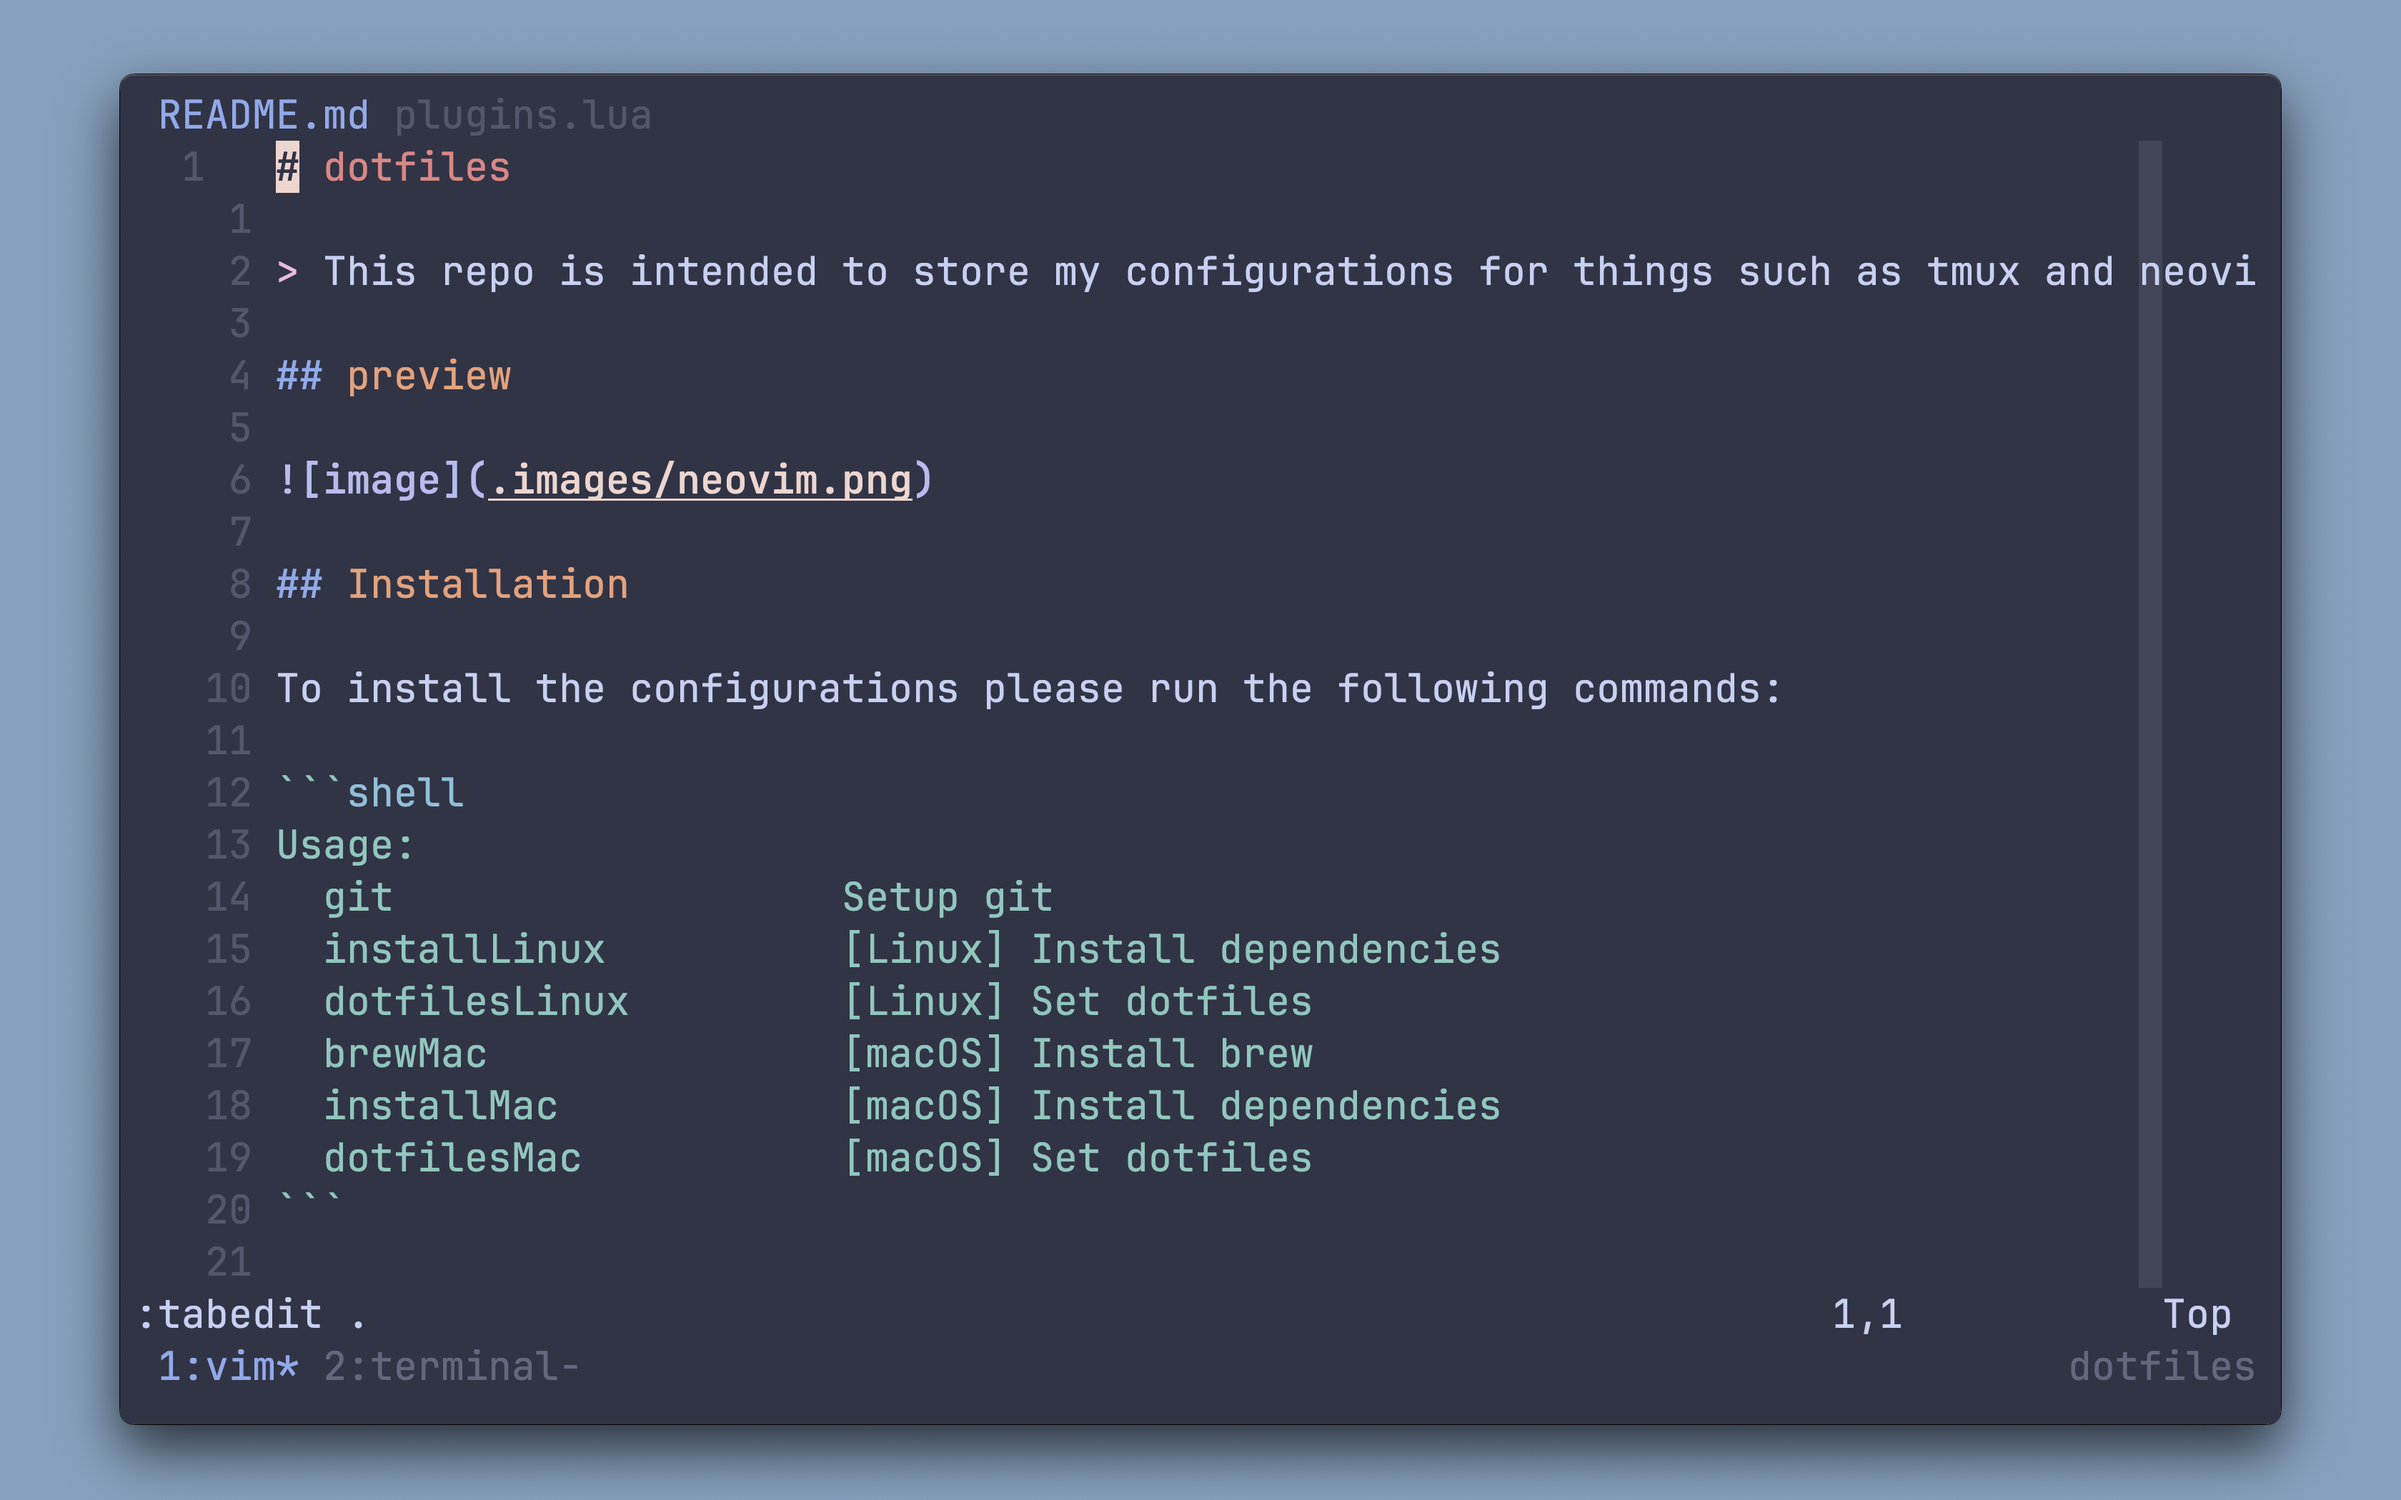
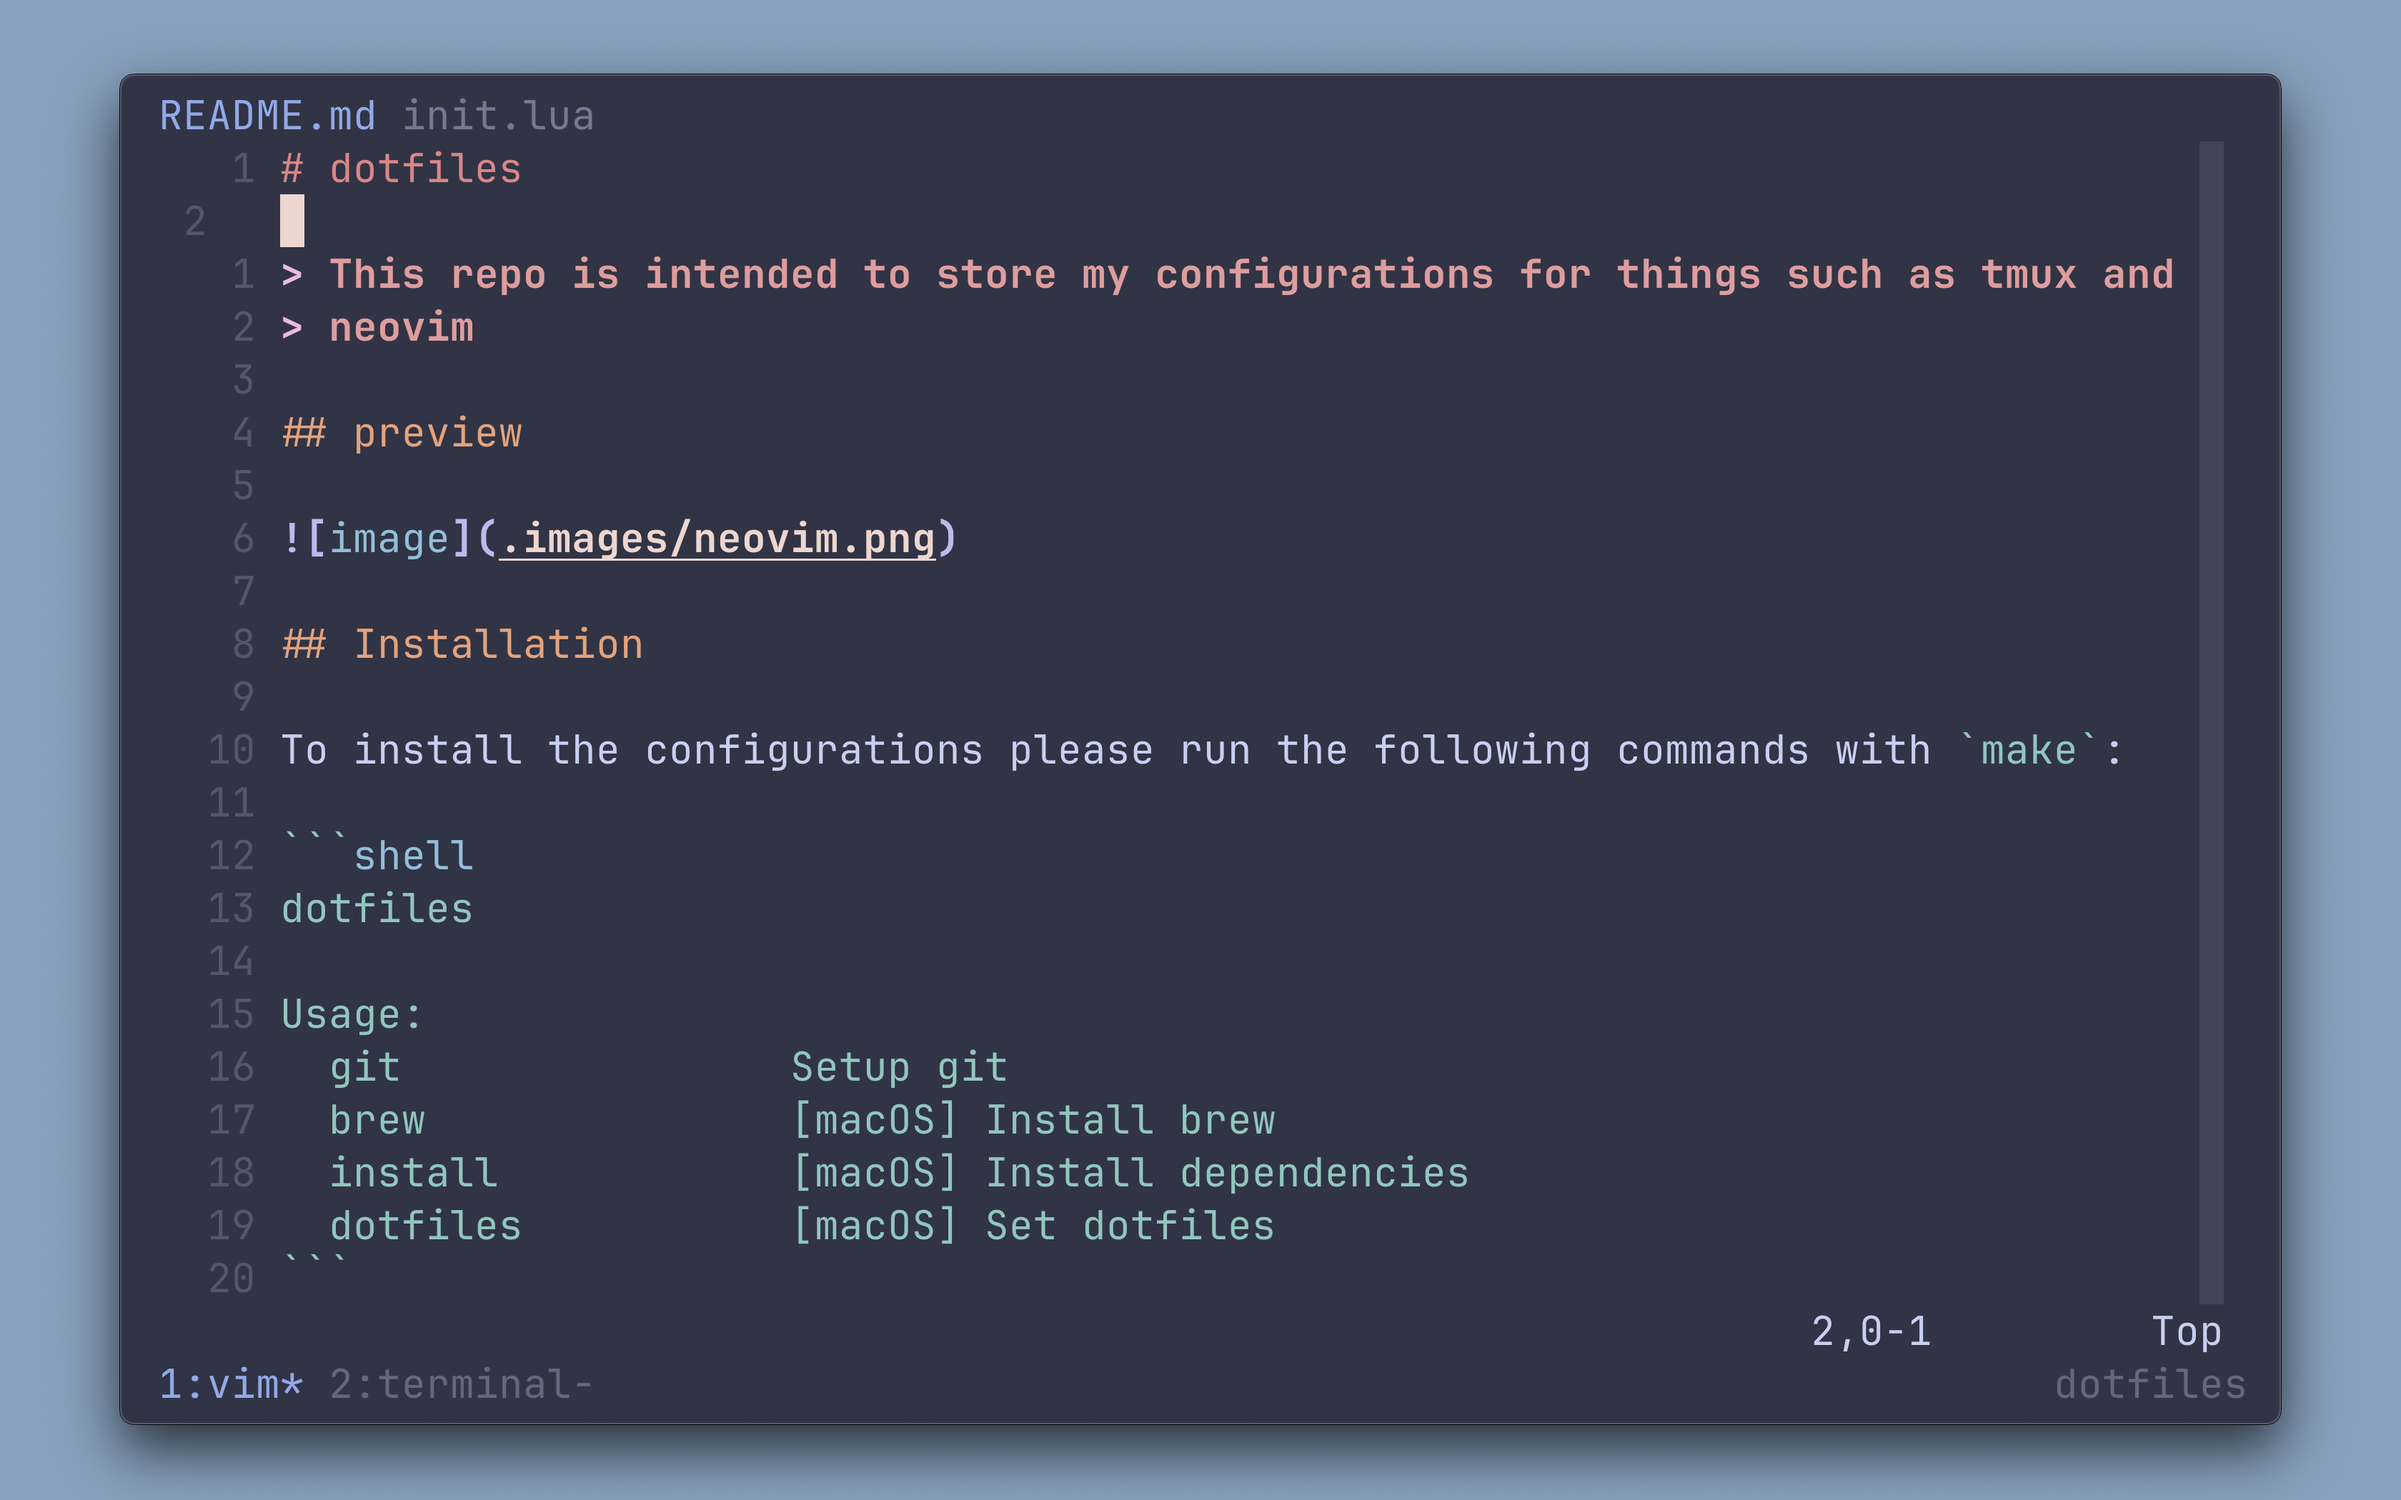
updating the structure of how my neovim imports files

diff --git a/README.md b/README.md
@@ -1,6 +1,7 @@
 # dotfiles
 
-> This repo is intended to store my configurations for things such as tmux and neovim
+> This repo is intended to store my configurations for things such as tmux and
+> neovim
 
 ## preview
 
@@ -8,9 +9,11 @@
 
 ## Installation
 
-To install the configurations please run the following commands:
+To install the configurations please run the following commands with `make`:
 
 ```shell
+dotfiles
+
 Usage:
   git                Setup git
   brew               [macOS] Install brew
